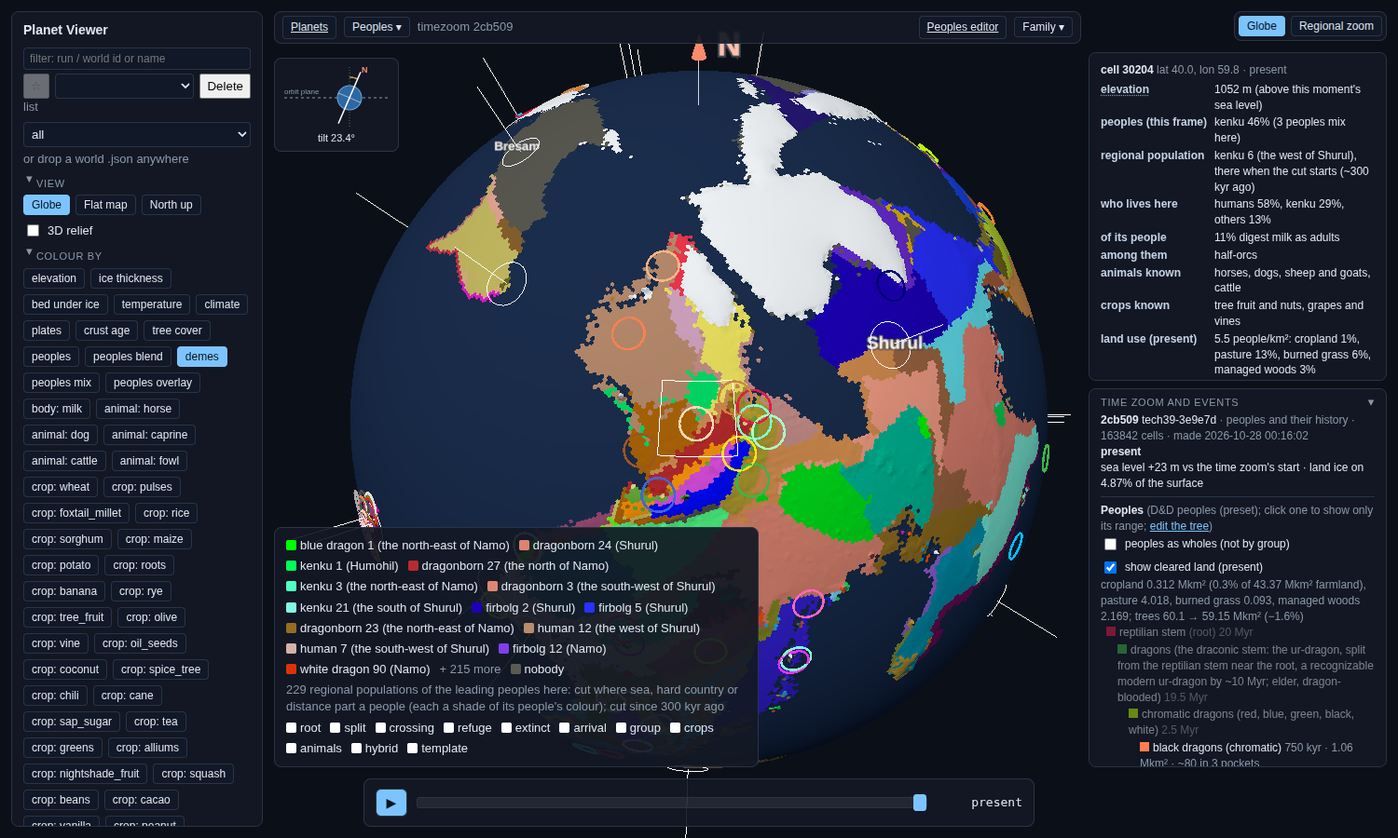
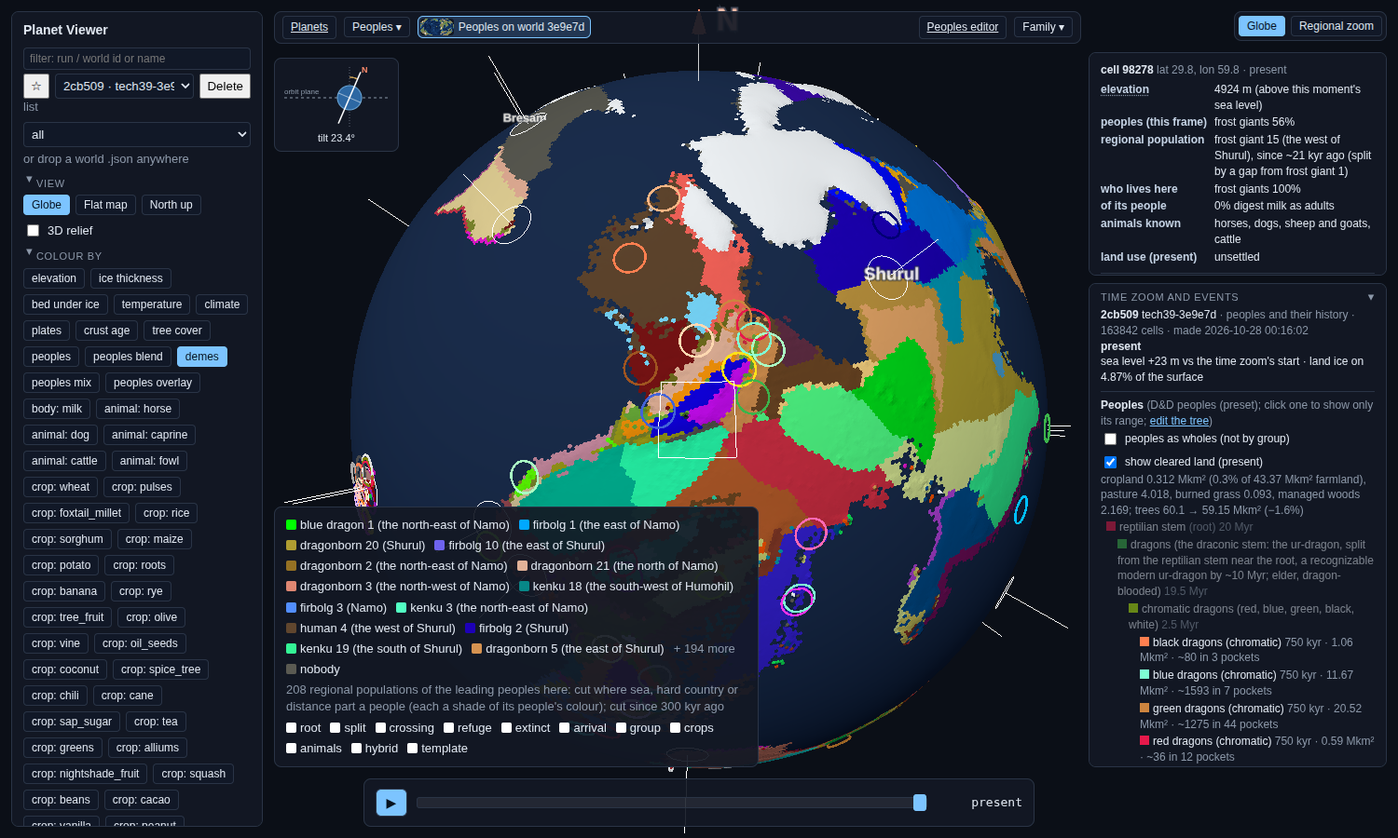
Demes (PW-981): follow-up review, before/after counts, gap-cause and speed-floor drafts, scale draft rewritten
Review note updated for PERSIST and NECK_KM (why 4 frames, before/after on b69f51, timings, new worked examples,
screenshots retaken); module docstring brought up to date. Gap-flicker and speed drafts done and removed; new drafts:
name each gap's cause (most are neighbours moving in), the remaining speed floor. Scale draft (needs-decision) now
shows ~20 / ~60 / ~150 human demes on b69f51.

Claude-Session: https://claude.ai/code/session_015Ygr7jJsDAVZNZ3um5tdCA

diff --git a/planet/lineages/demes.py b/planet/lineages/demes.py
@@ -12,20 +12,24 @@ cell's leading people; 65535 none) and `meta.demes` in run.json (a summary, the 
 How a frame is cut (per people):
 - Occupied cells: the cell's leading people (peoples_whole), its people with most heads (mix_lead), and its second people
   by heads where at least SECOND_MIN % of the cell (mix_second). Frames store no fuller presence (see the caveat below).
-- Travel cost: entering a land cell costs CORR_EASY / corridor (crossing.corridor, the history's own contact value from
-  this frame's land, rain, trees, ice and the world's rivers): 1 on a coast, ~1.6 on open lowland, 4-5 in desert or
-  mountains, 8 on ice. Open sea up to SEA_KM wide is crossed at SEA_COST per cell (canoes over a strait, one population
-  either side); a wider gap cuts the people in two.
+- Travel cost: entering a land cell costs (CORR_EASY / corridor) ** COST_POW, at most COST_MAX (crossing.corridor, the
+  history's own contact value from this frame's land, rain, trees, ice and the world's rivers): 1 on a coast, ~1.3 on
+  open lowland, ~2-2.3 in desert or mountains. Open sea up to SEA_KM wide is crossed at SEA_COST per cell (canoes over a
+  strait, one population either side); a wider gap cuts the people in two. A strip of other peoples' land up to NECK_KM
+  wide is bridged the same way (a minority's corridor through a range does not cut it).
 - Founder chains: the cells of each deme in the frame before keep its label; newly settled cells take the label of the
   cheapest-to-reach labelled cell (a front carries its parent's name); land reached by no path (a long crossing) starts
-  a new deme whose parent is the nearest deme of that people (spread.nearest_label), if it is at least MIN_CELLS.
-- Splits: a deme whose land falls apart (rising sea, a front dying back) splits along the gap: the largest piece keeps its
-  id, each other piece of MIN_CELLS or more is a new deme ("split by a gap"). A deme whose travel-cost diameter passes
+  a new deme whose parent is the nearest deme of that people (straight line), if it is at least MIN_CELLS.
+- Splits: a deme whose land falls apart (rising sea, a front dying back, a neighbour moving in) and stays apart PERSIST
+  frames splits along the gap, dated when it opened: the largest piece keeps its id, each other piece of MIN_CELLS or
+  more is a new deme ("split by a gap"). Pieces that rejoin sooner are flicker and leave no trace. A deme whose travel-cost diameter passes
   SPLIT_KM splits in two (isolation by distance): the half holding its oldest cells keeps the id, the other half buds off.
 - Fusions: two touching demes of a people fuse when their diameters together are under FUSE_KM (a range that shrank back
-  or a land bridge reconnecting two small populations); the older keeps its id.
+  or a land bridge reconnecting two small populations) and have been for PERSIST frames; the older keeps its id.
 - Extinction: a deme with no cells left ends at that frame.
-- A new people's first demes take as parent the deme (of any people) that held most of their cells the frame before.
+- A new people's first demes take as parent the deme of its tree parent on (or nearest) their cells the frame before,
+  else the deme that led most of those cells.
+Each people is cut on a subgraph of its own cells, the sea within SEA_KM and the necks within NECK_KM of them.
 Contacts: per frame, per pair of demes (of the same or of different peoples), the land edges where the leading peoples of
 two neighbouring cells are those demes, and the cells where one leads and the other is the second people.
 

diff --git a/docs/review/lineages/demes.md b/docs/review/lineages/demes.md
@@ -9,6 +9,9 @@ ones touch (of the same people or of others). The result is a dated family tree 
 people, plus a contact record per pair. It is the seed for "the grain-belt humans" as a culture, and later for
 languages. Nothing here is linguistic. Demes are only placed and dated.
 
+A first follow-up (same day) removed most of the noise: a split or fusion along a gap now counts only once it has held
+for 4 frames, and the pass works on each people's own cells, so it is 2.5-4.5 times faster. Both are described below.
+
 How to see it:
 - **Globe:** open a peoples run and pick the colour layer **demes**. Each deme is a shade of its people's colour. The
   legend lists this frame's largest demes. The hover card gains a "regional population" row: its name, since when, and
@@ -23,7 +26,7 @@ How to see it:
 
 ![demes on b69f51 at the present](demes-b69f51-globe.png)
 ![demes on 2cb509 at the present, Shurul and Namo](demes-2cb509-globe.png)
-![the workbench timeline, species + regional populations](demes-workbench-tree.png)
+![the workbench timeline, species + regional populations (2cb509, the dragons)](demes-workbench-tree.png)
 
 ## How it cuts (planet/lineages/demes.py)
 - **Occupied cells, per frame and people:**
@@ -36,6 +39,8 @@ How to see it:
     lowland, ~2 to 2.3 in desert or mountains, at most 3.
   - Sea up to 150 km wide is crossed at 2 easy km per km, so the people on both shores stay one population. A wider
     gap separates them.
+  - A strip of other peoples' land up to 120 km wide (two cells at L7) is bridged the same way, so a minority's corridor
+    through a range does not cut it in two (NECK_KM).
 - **Founder chains:**
   - Cells keep the deme they had in the frame before.
   - Newly settled cells take the deme that is cheapest to reach.
@@ -43,77 +48,101 @@ How to see it:
     nearest deme of the same people.
   - A new people's first demes take as parent the deme of their tree parent on (or nearest) those cells.
 - **Splits:**
-  - **Gap:** when a deme's land falls into pieces, the largest piece keeps the id. Every other piece of 40 or more
-    cells becomes a new deme. It is dated at the split and keeps the date its land was settled.
+  - **Gap:** when a deme's land falls into pieces and stays in pieces for 4 frames (PERSIST), the largest piece keeps
+    the id. Every other piece of 40 or more cells becomes a new deme. It is dated when the gap opened (the event also
+    records when it was confirmed) and keeps the date its land was settled. If the pieces rejoin within 4 frames,
+    nothing is recorded.
   - **Distance:** a deme whose travel-cost diameter passes 7,000 easy km is cut in two between the ends of that
     diameter. The half with the older cells keeps the id.
-- **Fusions:** two touching demes of one people fuse when their diameters together come to less than 4,000 easy km.
-  The older one keeps its id.
+- **Fusions:** two touching demes of one people fuse when their diameters together come to less than 4,000 easy km,
+  and have stayed so for 4 frames (dated when they first could). The older one keeps its id.
 - **Window:** the frames of the last 300 kyr (the glacial zoom and the recent pass; the deep keyframes are Myr apart).
-  On b69f51 that is 129 frames.
+  On b69f51 that is 129 frames: 4 kyr apart back to ~30 kyr, then 0.5 kyr. So 4 frames is 16 kyr in the glacial zoom
+  and 2 kyr in the recent pass.
+- **Work per people:** each people is cut on a small graph of its own cells, the sea within 150 km and the necks within
+  120 km. Diameters are kept while a deme's cells stand still, and measured again with one sweep (not two) from its
+  last far end when they move.
+
+### Why 4 frames
+Before the change, on b69f51, 276 of the 459 pieces split off along a gap fused back later. Counted by how many frames
+each lived before fusing back: 38 lived 0 frames, 55 one, 23 two, 25 three. From four frames on the count is flat (8, 9,
+8, 8, 7, 6 per frame, then 89 at ten or more). So half of all fuse-backs happen within 3 frames, and after that the
+chance of fusing back no longer depends on age: that flat tail is real coming and going, the first 3 frames are the
+flicker. With PERSIST = 4 no piece fuses back within 5 frames of its split (34 do later, 22 of them after ten frames or
+more).
+
+## Before and after the follow-up (b69f51)
+| | v0 | now |
+|---|---|---|
+| demes, all / alive | 809 / 201 | 399 / 184 |
+| events | 1,315 | 519 |
+| gap splits / fusions | 459 / 389 | 102 / 68 |
+| gap events of 60+ cells | 494 | 114 |
+| of these, sea, ice or corridor changing in the gap | 48 (10%) | 12 (11%) |
+| human demes, all / alive | 76 / 60 | 58 / 55 |
+| leonin / orc / goliath demes | 62 / 90 / 57 | 28 / 25 / 16 |
+| time, demes.derive | 71-91 s | 20-33 s |
+
+Times across the four test runs (`planet demes`, one core, on a machine at load 70-110 of 48 threads): b69f51 33 s,
+ac4c06 26 s, 2cb509 30 s, 3097e3 27 s (v0: 71, 112, 132, 134 s). A quieter moment gave b69f51 20 s.
 
 ## Worked example 1: humans on the owner's world (run b69f51, world 2a7385, "Seven Meals")
-**Arising and the chain.** Humans appear 200 kyr ago as 21 demes at once, one for each separate piece of the human
-stem's land. Each takes its parent from the stem's own demes: human 1 comes from human line 13, human 2 from human
-line 6, and so on.
+**Arising and the chain.** Humans appear 200 kyr ago as 18 demes at once, one for each separate piece of the human
+stem's land. Each takes its parent from the stem's own demes: human 1 comes from human line 10, human 2 from human
+line 30, and so on.
 
 On the southern continent (61°S 72°E), human 2 then breaks up by distance into a chain:
-- human 23 buds off at 200 kyr;
-- human 29 buds off at 196 kyr;
-- human 54 buds off at 26.5 kyr;
-- human 70 splits off human 54 along a gap 8 kyr ago (its land was first settled 25 kyr ago);
-- human 74 splits off human 29 at 3.5 kyr;
-- human 76 buds off human 74 at the present.
+- human 20 and human 23 bud off at 200 kyr, and human 25 buds off human 20;
+- human 36 buds off human 23 at 100 kyr, and human 50 at 11.5 kyr;
+- human 42 buds off human 2 at 27.5 kyr and fuses back into it (the fusion began at 24.5 kyr and was confirmed at
+  23 kyr);
+- human 55 splits off human 2 along a gap 4 kyr ago (its land first settled 27.5 kyr ago), and human 58 buds off it at
+  the present.
 
-Today 60 human demes are alive out of 76. Their present sizes run from 82 to 2,135 cells.
+Today 55 human demes are alive out of 58. Their present sizes run from 82 to 2,862 cells.
 
 **A sea crossing.** The history logs "humans sail across the sea to the large island at 53°N 22°E (241 km of open sea)"
-44 kyr ago. Demes founds a new population there, human 44, 40 kyr ago, with human 17 on the facing coast as its
-parent. The ASCII maps show it:
-- 44 kyr ago the island is held by another people;
-- 40 kyr ago humans lead its north;
-- by the present they hold it all, 113 cells.
-
-Human 44 is its own population because 241 km of open sea is more than the 150 km that keeps two shores one
-population.
+44 kyr ago. Demes founds a new population there, human 39, 40 kyr ago, with human 17 on the facing coast as its
+parent. By the present it holds the island, 113 cells. Human 39 is its own population because 241 km of open sea is
+more than the 150 km that keeps two shores one population.
 
 ## Worked example 2: a late boat diaspora (run 2cb509, world 3e9e7d, named landmasses)
-For 195 kyr, humans here are one deme: human 1 on the north-west of Rejonor, ~170 to 190 lead cells. Then the boat era
-cuts them up quickly:
-- **human 3** is founded over the sea on Namo 5.0 kyr ago (80 cells at first, 1,150 occupied today);
-- **human 7** is founded on Shurul 2.5 kyr ago;
-- **human 8** is founded on Humohil 2.0 kyr ago;
-- on the islands, human 4 (Tigobrus) and human 5 (Bresam) split from human 1 at 4.0 and 3.5 kyr. Their land was
-  first settled 4.5 kyr ago, by the canoe hops that kept them part of human 1 at first.
+For 195 kyr, humans here are one deme, human 1, which arose from archaic human 1 on Rejonor. Then the boat era cuts them
+up quickly:
+- **human 2** is founded over the sea on Namo 5.0 kyr ago (158 cells at first, 1,439 today);
+- **human 4** splits off along a gap on the west of Shurul 4.0 kyr ago. Its land was first settled 4.5 kyr ago, by the
+  canoe hops that kept it part of human 1 at first. Human 5 (Vetom) and human 6 (Tigobrus) split off the same way at
+  the same time;
+- **human 3** is founded on the south-west of Shurul 2.5 kyr ago, and **human 7** on Humohil 2.0 kyr ago;
+- on Namo, human 8 is founded over the sea from human 2 at 1.5 kyr, and human 9 from human 8 at 0.5 kyr.
 
-Shurul's humans then break up along gaps:
-- human 6 at 3.0 kyr;
-- human 10 and human 12 at 2.0 and 1.5 kyr;
-- human 14 at 1.0 kyr.
-
-Sixteen human demes are alive at the present, against 60 on b69f51. On this world humans stayed home until boats, and
-the tree shows it.
+Human 1's own homeland breaks off last: human 10 splits off along a gap on Rejonor 2.0 kyr ago (its land settled
+200 kyr ago), and the id stays with human 1's largest piece, now on Bresam. Thirteen human demes are alive at the
+present, against 55 on b69f51. On this world humans stayed home until boats, and the tree shows it.
 
 ## What looks right
 - Real barriers cut peoples. Sea gaps wider than a strait separate demes, and a strait does not. The dated crossings
   line up with the history's own crossing log within a frame or two (b69f51's island: 44 kyr in the log, 40 kyr in
   demes).
-- The founder chains read as stories: "founded over the sea from human 17", "split by a gap from human 6 (its land
-  settled 200 kyr ago)". The ancestry goes up into the authored tree (human 1 from human line 13).
-- The worlds differ the way their histories differ: 60 human demes on b69f51's big shared continent, 16 on 3e9e7d's
+- The founder chains read as stories: "founded over the sea from human 17", "split off along a gap (its land settled
+  27.5 kyr ago)". The ancestry goes up into the authored tree (human 1 from human line 10).
+- The worlds differ the way their histories differ: 55 human demes on b69f51's big shared continent, 13 on 3e9e7d's
   late diaspora.
-- The contact series per deme pair gives "who these humans touched". On b69f51, human 2 has bordered cervid folk 3 for
-  200 kyr, and they share 1,053 cells today.
+- The tree no longer flickers: no split-off piece fuses back within 5 frames, and the small peoples' trees shrank to a
+  third (orcs 90 to 25 demes).
+- The contact series per deme pair gives "who these humans touched". On b69f51, human 23 has bordered cervid folk 3 for
+  200 kyr, and they share 307 cells today.
 
 ## What doesn't (yet)
-- **Flicker.** Most gap splits and fusions are bookkeeping noise. They happen where a pocket is joined to its people by
-  a neck one or two cells wide that changes hands between frames. On b69f51 there are 459 gap splits and 389 fusions
-  for 809 demes. Of the 497 events of 60+ cells, only 49 had the sea moving next to them. Example: the humans at
-  ~51°N 159°W split at 120 kyr, fused at 68 kyr and split again at 32 kyr across such a neck. Small peoples churn most:
-  leonin have 62 demes of which 28 died out, orcs 90. Hysteresis would fix it (draft
-  `draft-demes-gap-flicker`).
-- **Land bridges barely show.** Sea-level changes do open and close gaps, but on b69f51 they are swamped by the flicker
-  above. A clean ice-age bridge story waits for the flicker fix (and for PW-902, ranges that follow sea level).
+- **Most gaps are neighbours, not the sea.** The gap splits that remain last, but only 11% of those of 60+ cells
+  (b69f51) have the sea, ice or a corridor changing in the gap; 18% on 2cb509. On b69f51, of the other 102, another
+  people holds the gap in 90. A wedge of newcomers is a fair way for a population to part, but the tree does not say so
+  (draft `draft-demes-gap-cause`: name each gap's cause). A wider neck (240 km) cuts the count to 70 but not the share.
+- **Land bridges do not show on b69f51.** Its sea hardly moves in 300 kyr: land runs from 58,454 to 59,338 cells, and
+  only 947 cells ever change. No fusion there has land emerging in its gap. On 2cb509, whose sea does move (7,929
+  cells change), three splits come from a gap drowning, for example brass dragon 2 on Shurul parting from brass dragon
+  1 on Namo at 276 kyr. Still no fusion over newly emerged land. Bridge stories need ranges that follow the sea
+  (PW-902).
 - **Peoples that rarely lead are underseen.** Measured at the present, where full presence is stored: of the cells
   where a people (its groups counted in) has at least 12% presence, demes sees it in 69% on b69f51 (63-73% on ac4c06,
   2cb509 and 3097e3). For many peoples it is far less:
@@ -132,12 +161,16 @@ the tree shows it.
   On 2cb509, leonin and aarakocra are at 4%. Their demes are cut from the few cells they lead. The cheap fix is one
   per-frame bit-flag layer of which peoples are present (draft `draft-demes-full-presence-frames`). It is not done
   here: it touches the history's frame store.
-- **Scale is a taste call.** The 7,000 easy-km split gives ~2.4 Mkm² per human deme on b69f51 (draft
+- **Scale is a taste call.** On b69f51, 14,000 / 7,000 / 3,500 easy km give ~20 / ~55 / ~155 human demes (draft
   `draft-demes-scale`, needs-decision).
-- **Cost.** The pass adds 71-132 s per L7 peoples run, on one core (draft `draft-demes-speed`).
-- **Colours.** Neighbouring demes of one people differ only by shade. With 60 human demes, two touching ones can look
+- **Cost.** 20-33 s per L7 peoples run. Cutting per people helped less than hoped, because together the peoples' cells
+  add up to 1.3-1.45 times all the land each frame (draft `draft-demes-speed-floor`).
+- **Colours.** Neighbouring demes of one people differ only by shade. With 55 human demes, two touching ones can look
   alike. The hover card names them.
-- **Arrival dates.** The globe layer shows the leading people's deme only. On 2cb509, human 3 leads 80 cells of Namo
-  5 kyr ago, while the history's crossing log names humans' first arrival on Namo at 1.3-1.5 kyr. The log is kept per
+- **Names.** A deme is named for where it is now (or at its peak, if gone). Human 1 on 2cb509 began on Rejonor but is
+  named "the south of Bresam", because its largest piece moved there. Landmass names carry the landmass's own centre
+  ("the east of the continent at 49°N 173°W" is the east of that continent, not a deme at that point).
+- **Arrival dates.** The globe layer shows the leading people's deme only. On 2cb509, human 2 holds 158 cells of
+  Namo 5 kyr ago, while the history's crossing log names humans' first arrival on Namo at 1.3-1.5 kyr. The log is kept per
   line (humans and each of their groups), and demes reads the whole people, groups counted in, but why the two
   disagree by ~3.5 kyr is not checked yet.

diff --git a/issue-tracking/inbox/draft-demes-scale.md b/issue-tracking/inbox/draft-demes-scale.md
@@ -1,5 +1,5 @@
 ---
-title: "How big is a regional population (deme)? The distance-split threshold sets ~50-60 human demes"
+title: "How big is a regional population (deme)? ~20, ~60 or ~150 human demes on b69f51"
 type: task
 status: needs-decision
 parent: PW-981
@@ -10,20 +10,28 @@ impact: med
 found_by: fun46-demes
 blocked_by: []
 relates: [PW-981, PW-856, PW-767]
-refs: [planet/lineages/demes.py, "run b69f51", "run ac4c06"]
+refs: [planet/lineages/demes.py, "run b69f51"]
 ---
 
 ## Description
-In plain words: the demes pass cuts a long range into a chain of regional populations once it is wider than a set travel
-distance. That distance decides how many "cultures in waiting" each people gets: a few big ones per continent, or many
-small ones. It is a taste call, not physics.
-
-Now: SPLIT_KM = 7,000 "easy km" (coast-equivalent travel; ~5,500 km of open lowland, fewer through forest, desert or
-mountains). Result: humans 60 living demes on b69f51 (~47,000 cells seen, ~780 cells or ~2.4 Mkm² per deme), 51 on ac4c06;
-most peoples 1-25 (2cb509: humans 16).
+In plain words: the demes pass cuts a long range into a chain of regional populations once it is wider than a set
+travel distance. That distance decides how many "cultures in waiting" each people gets. Humans on b69f51 lead 34,603
+cells today (~108 Mkm², mostly the one huge continent), and the three settings give:
+- **~20 human demes** (split at 14,000 easy km, fuse under 8,000): 21 alive today. A typical one is ~1,200 cells
+  (~3.7 Mkm²); they run from ~100 cells (an island) to ~3,900. Each large island still gets its own (the sea gap does not
+  depend on this setting). Few cuts by distance (21 in 300 kyr), so most of the tree is gap splits (148) and fusions (107): the tree
+  is mostly about who got cut off, not about drift across a plain.
+- **~60 human demes** (now: 7,000 / 4,000): 55 alive. A typical one is ~580 cells (~1.8 Mkm²), from ~90 to ~1,150. The 2cb509 diaspora gets 13 at this
+  setting.
+- **~150 human demes** (3,500 / 2,000): 155 alive. A typical one is ~190 cells (~0.6 Mkm²), from ~40 to ~450. The tree
+  churns: 647 cuts by distance and 381 demes that die out in 300 kyr, against 143 and 147 now. Many of those are
+  short-lived bands at moving range edges.
+One easy km is a km of coast or easy lowland; open lowland costs ~1.3 per km, desert or mountains 2-3. The count is
+also the number of rows the workbench tree draws for humans, and later perhaps the number of languages or dialects.
 
 Options:
-- A: keep 7,000;
-- B: 10,000-12,000 (untested: perhaps half as many demes; a cleaner tree, coarser cultures);
-- C: two levels: big demes (B) with sub-demes inside (A), the tree drawing the big ones and the sub-demes on demand.
-Lean: C later (languages want both levels), B now if the tree reads too busy in the workbench.
+- A: keep 7,000 (~60);
+- B: 14,000 (~20): a clean tree, coarse cultures;
+- C: 3,500 (~150): fine-grained, busy and churning;
+- D: two levels: big demes (B) with sub-demes (A) inside, the tree drawing the big ones and the sub-demes on demand.
+Lean: A now; D later, since languages want both levels (family and dialect).

diff --git a/issue-tracking/inbox/draft-demes-gap-cause.md b/issue-tracking/inbox/draft-demes-gap-cause.md
@@ -1,0 +1,36 @@
+---
+title: "Demes: say what opened each gap (sea, ice, hard country, or a neighbour moving in); most are neighbours"
+type: task
+status: todo
+parent: PW-981
+milestone: v2
+subsystem: timezoom
+effort: s
+impact: med
+found_by: fun46-demes
+blocked_by: []
+relates: [PW-981, PW-902]
+refs: [planet/lineages/demes.py, "run b69f51", "run 2cb509"]
+---
+
+## Description
+In plain words: with the flicker gone (gap splits and fusions now have to hold 4 frames), the splits that remain are
+real separations that last, but the sea, the ice or the hard country rarely causes them. On b69f51 about four in five
+happen because another people holds the strip between the two halves of a population. That is a fair way for a population to
+part: a wedge of newcomers. But the tree says only "split off along a gap", so a reader cannot tell a drowned land
+bridge from a neighbour's advance.
+
+Measured with the PW-981 follow-up (gap events of 60+ cells; the zone within ~3 cells of both sides; sea, ice or a
+corridor change of 0.5 or more between the frame before the event began and the frame it was confirmed):
+- b69f51: 114 events, 12 (11%) with a change in the gap (corridor 12, ice 9, sea 0). Of the other 102, the gap is held
+  by another people in 90, by sea in 11, and empty in 1. The sea hardly moves on this world in 300 kyr: land runs from
+  58,454 to 59,338 cells, and only 947 cells ever change.
+- 2cb509: 125 events, 22 (18%) with a change (corridor 17, ice 11, sea 6). Three splits come from a gap drowning (e.g.
+  brass dragon 2 on Shurul split from brass dragon 1 on Namo at 276 kyr). No fusion over newly emerged land.
+- A wider neck (NECK_KM 240 instead of 120) cuts the count to 70 but not the share (4% with a change), so this is not a
+  neck-width question.
+
+What to do: tag each split_gap / fusion event with its cause (sea rose / fell, ice, corridor, "<people> moved in",
+"<people> withdrew") and put it in the event text and the workbench hover. That makes land-bridge stories findable
+when a world has them (PW-902: ranges following sea level).
+- [ ] each gap event names its cause; b69f51's 114 and 2cb509's 125 events classified, counts in the review note

diff --git a/issue-tracking/inbox/draft-demes-speed-floor.md b/issue-tracking/inbox/draft-demes-speed-floor.md
@@ -1,0 +1,30 @@
+---
+title: "Demes pass: 20-33 s per L7 run after the per-people cut; the next halving needs incremental re-cuts"
+type: task
+status: todo
+parent: PW-981
+milestone: v2
+subsystem: timezoom
+effort: s
+impact: low
+found_by: fun46-demes
+blocked_by: []
+relates: [PW-981]
+refs: [planet/lineages/demes.py, "run b69f51"]
+---
+
+## Description
+In plain words: the demes pass that runs after each peoples run now takes 20-33 s on an L7 world (it took 71-134 s).
+That is fine for now, but it is not "a few seconds". Cutting each people on its own cells helped less than hoped,
+because together the peoples cover most of the land: on b69f51 their cells add up to 74,000-86,000 per frame,
+1.3-1.45 times all the land (59,000 cells). So the pass still touches about the whole globe each frame.
+
+Where the time goes now (b69f51, 129 frames, line profile on a loaded machine): the per-people cuts ~13-17 s (building
+each local graph ~1.5 s, finding nearby cells ~1 s, the label Dijkstra ~1.5-2.3 s, diameters ~4.5 s), the corridor tags
+~4.7 s (whole globe per frame), contacts ~2 s, reading the 112 MB world JSON for its rivers ~1.5 s.
+
+Next steps, if it matters:
+- re-cut a people only around the cells that changed since the last frame (most frames move a few percent of a range);
+- compute the corridor cost on the union of the peoples' neighbourhoods, not the globe;
+- keep the rivers (flow) in the run, so the pass need not parse the world JSON.
+- [ ] demes.derive on b69f51 under 15 s, same output

diff --git a/issue-tracking/tickets/PW-981-demes-phylogeography-pass-that-cuts-each.md b/issue-tracking/tickets/PW-981-demes-phylogeography-pass-that-cuts-each.md
@@ -27,6 +27,7 @@ Result: a dated, located deme tree nested inside the authored people tree, plus 
 - [ ] a review page/map of demes over time
 
 ## Updates
+- 2026-10-29: Fun lane 46 follow-up: gap splits and fusions must hold 4 frames (PERSIST, from the fuse-back ages: half within 3 frames, flat after) and a 120 km neck of other peoples' land is bridged; b69f51 gap splits 459 -> 102, fusions 389 -> 68, gap events of 60+ cells 494 -> 114, but only 11% have sea, ice or a corridor changing in the gap (another people holds the gap in 90 of the rest); no land bridges on b69f51 (its sea barely moves), three drowned gaps on 2cb509. Per-people cuts: 20-33 s per L7 run (was 71-134 s). Drafts: gap cause, speed floor; scale draft rewritten (~20/~60/~150 human demes); gap-flicker and speed drafts done and removed.
 - 2026-10-29: Fun lane 46: demes v0 built (planet/lineages/demes.py; `planet demes RUN`, run by output.save; globe layer "demes", workbench view "species + regional populations"). Review docs/review/lineages/demes.md: b69f51 60 living human demes, 2cb509 16 (a boat diaspora). Drafts: full presence per frame, gap flicker, scale (needs-decision), speed.
 - 2026-10-28: Owner 2026-10-28: moved under the cultures epic PW-856 and into v2 (cultures are probably demes more than species); still the foundation of the language work under PW-767 and of the demo PW-986. Strongly tied to PW-902 (ranges follow ice-age sea level and land bridges).
 - 2026-10-28: Created.
